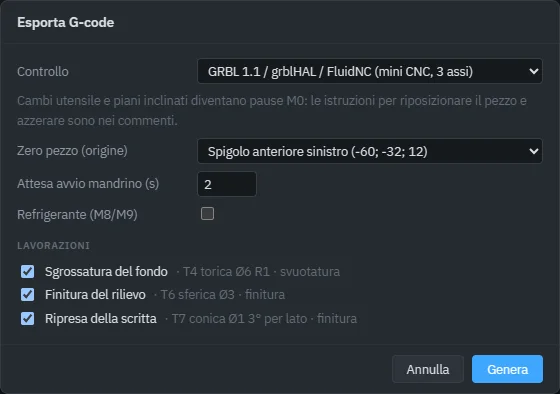
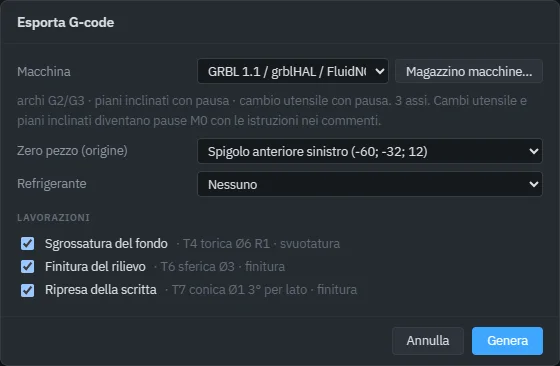
Guida, README e schermate del magazzino macchine

diff --git a/src/CarveCAM.Server/wwwroot/js/guide-pages.js b/src/CarveCAM.Server/wwwroot/js/guide-pages.js
@@ -329,10 +329,10 @@ export function guidePages() {
         ul([
           L('[[refPoint]] <b>Origini › Nuova origine da un punto</b> (clic nella vista, con aggancio ai vertici) o <b>da coordinate</b> (con i punti notevoli dell\'ingombro). I punti si chiamano <i>Origine 1, 2…</i> e si rinominano nelle proprietà.', '[[refPoint]] <b>Origins › New origin from a point</b> (click in the view, snapping to vertices) or <b>from coordinates</b> (with the key points of the bounds). The points are called <i>Origin 1, 2…</i> and can be renamed in the properties.'),
           L('Nelle proprietà di un\'origine <b>Sposta il punto…</b> la porta su un altro punto con un clic nella vista (con aggancio ai vertici).', 'In the properties of an origin <b>Move the point…</b> moves it to another point with a click in the view (snapping to vertices).'),
-          L('[[gcode]] <b>Esporta G-code</b>: scegli il controllo, lo zero pezzo e le lavorazioni; il programma si può copiare o scaricare.', '[[gcode]] <b>Export G-code</b>: choose the controller, the work zero and the operations; the program can be copied or downloaded.'),
+          L('[[gcode]] <b>Esporta G-code</b>: scegli la macchina, lo zero pezzo, il refrigerante e le lavorazioni; il programma si può copiare o scaricare.', '[[gcode]] <b>Export G-code</b>: choose the machine, the work zero, the coolant and the operations; the program can be copied or downloaded.'),
         ]),
         shot('export', [
-          S(1, L('<b>Controllo</b>: GRBL 1.1 / grblHAL / FluidNC per le mini CNC, oppure Fanuc/ISO.', '<b>Controller</b>: GRBL 1.1 / grblHAL / FluidNC for mini CNCs, or Fanuc/ISO.')),
+          S(1, L('<b>Macchina</b>: una delle CNC del magazzino macchine, con il suo modo di scrivere il programma.', '<b>Machine</b>: one of the CNCs of the machine library, with its way of writing the program.')),
           S(2, L('<b>Zero pezzo</b>: l\'origine del progetto o uno dei punti di origine.', '<b>Work zero</b>: the project origin or one of the origin points.')),
           S(3, L('<b>Lavorazioni</b> da mettere nel programma, nell\'ordine del progetto.', '<b>Operations</b> to put in the program, in project order.')),
         ], L('Esportazione del G-code', 'G-code export')),
@@ -340,6 +340,17 @@ export function guidePages() {
           L('<b>GRBL</b>: 3 assi; cambi utensile e piani inclinati diventano pause <code>M0</code> con le istruzioni nei commenti.', '<b>GRBL</b>: 3 axes; tool changes and tilted planes become <code>M0</code> pauses with the instructions in the comments.'),
           L('<b>Fanuc/ISO</b>: 3 assi in coordinate mondo, oppure 3+2 con <code>G68.2</code> per i piani inclinati. [[cldata]] <b>CL data</b> (APT) per altri post-processor.', '<b>Fanuc/ISO</b>: 3 axes in world coordinates, or 3+2 with <code>G68.2</code> for tilted planes. [[cldata]] <b>CL data</b> (APT) for other post-processors.'),
         ]),
+        h3(L('Magazzino macchine', 'Machine library')),
+        p(L('[[machine]] <b>Strumenti › Magazzino macchine</b> raccoglie le tue CNC: si parte da una macchina predefinita (GRBL, Fanuc/ISO, LinuxCNC, Mach3, solo G1), la si duplica e si adatta. A destra l\'<b>anteprima del G-code</b> mostra subito l\'effetto di ogni impostazione.',
+          '[[machine]] <b>Tools › Machine library</b> holds your CNCs: start from a built-in machine (GRBL, Fanuc/ISO, LinuxCNC, Mach3, G1 only), duplicate it and adapt it. On the right the <b>G-code preview</b> shows the effect of each setting at once.')),
+        ul([
+          L('<b>Archi e corde</b>: gli archi del percorso diventano <code>G2</code>/<code>G3</code> (centro I J o raggio R); con <b>solo G1</b> si rifanno a corde con l\'<b>errore di corda</b> e la lunghezza <b>minima</b> e <b>massima</b>.', '<b>Arcs and chords</b>: the arcs of the toolpath become <code>G2</code>/<code>G3</code> (I J centre or R radius); with <b>G1 only</b> they are remade as chords with the <b>chord error</b> and the <b>minimum</b> and <b>maximum</b> length.'),
+          L('<b>Movimenti</b>: comandi di movimento <b>esatto</b> o <b>smooth</b> (per esempio <code>G61</code>, <code>G64 P0.02</code>) per svuotature e finiture: con molti segmenti G1 il movimento smooth evita i rallentamenti.', '<b>Motion</b>: <b>exact</b> or <b>smooth</b> motion commands (for example <code>G61</code>, <code>G64 P0.02</code>) for pocketing and finishing: with many G1 segments smooth motion avoids slowdowns.'),
+          L('<b>Mandrino</b> automatico o manuale, senso di rotazione, attesa, giri minimi e massimi; <b>refrigerante</b> a pioggia, nebulizzato o aria; <b>aspirazione</b> o ventola; <b>cambio utensile</b> automatico o con pausa.', 'Automatic or manual <b>spindle</b>, direction, dwell, minimum and maximum speed; flood, mist or air <b>coolant</b>; <b>dust extraction</b> or fan; automatic or paused <b>tool change</b>.'),
+          L('<b>Sintassi</b>: parole e assi, decimali, numeri di riga, commenti, spazi; righe di inizio e fine con i segnaposto (<code>{S}</code> giri, <code>{T}</code> utensile, <code>{NAME}</code> programma…).', '<b>Syntax</b>: words and axes, decimals, line numbers, comments, spaces; start and end lines with placeholders (<code>{S}</code> speed, <code>{T}</code> tool, <code>{NAME}</code> program…).'),
+          L('Con le <b>corse</b> e l\'<b>avanzamento massimo</b> della macchina l\'esportazione avvisa se il percorso è troppo grande o troppo veloce.', 'With the machine <b>travel</b> and <b>maximum feed</b> the export warns when the toolpath is too large or too fast.'),
+        ]),
+        act([run('tools.machines', L('Apri il magazzino macchine', 'Open the machine library'), 'machine')]),
         warn(L('Controlla sempre il programma con il simulatore della tua macchina e fai la prima prova <b>in aria</b>, con lo zero alzato sopra il pezzo.', 'Always check the program with your machine simulator and do the first run <b>in the air</b>, with the zero raised above the part.')),
       ],
     },

diff --git a/README.md b/README.md
@@ -357,10 +357,41 @@ Le unità sono millimetri: se il modello è in altre unità usare la scala nelle
 
 ## G-code
 
+Il G-code si scrive per una **macchina del magazzino macchine** (*Strumenti › Magazzino macchine*, anche dal
+pulsante nell'esportazione), salvato sul server in `App_Data/library/machines.json` ed esportabile insieme a
+utensili e setup. Le macchine predefinite sono GRBL 1.1 / grblHAL / FluidNC, Fanuc/ISO 3+2 (G68.2), Fanuc/ISO 3 assi
+in coordinate mondo, LinuxCNC, Mach3/Mach4 e un controllo generico solo G1; ognuna si duplica e si modifica, con
+l'**anteprima del G-code** su un percorso di prova (elica, cerchio, raccordi, finitura curva). Per ogni macchina:
+
+- **Generale:** piani inclinati (pausa `M0` con le istruzioni, `G68.2`, coordinate mondo), ordine di
+  avvicinamento, corse degli assi e avanzamento massimo (avvisi nell'esportazione, avanzamenti ridotti), estensione
+  del file. *Valori di partenza* applica le impostazioni di una macchina predefinita.
+- **Sintassi:** parole di movimento (G0 G1 G2 G3), nomi degli assi e di I J K R F, decimali di coordinate, archi e
+  avanzamento, formato dei numeri (`10`, `10.`, `10.000`), assi invertiti, spazi, sintassi modale, numeri di riga
+  (lettera, inizio, passo), commenti tra parentesi o dopo `;` (o nessuno), maiuscolo, lunghezza massima, fine riga.
+- **Archi e corde:** i percorsi sono polilinee; il post-processor riconosce gli **archi** nei punti (tolleranza,
+  raggio minimo e massimo, angolo massimo, piani XZ e YZ, eliche) e li scrive come `G2`/`G3` con il centro `I J`
+  incrementale, assoluto o il raggio `R` (verificando il centro che ne ricava il controllo dopo l'arrotondamento).
+  Con **solo G1** gli archi riconosciuti si rifanno a corde regolari con l'**errore di corda** e la lunghezza
+  **minima** e **massima** delle corde (0 = senza limite).
+- **Movimenti:** comandi di **movimento esatto** e **smooth** (es. `G61`, `G64 P{TOL}`, `G05.1 Q1`) per le
+  svuotature e per le finiture, con la tolleranza e le righe per tornare alla modalità normale a fine programma.
+- **Mandrino:** automatico (`M3`/`M4` con i giri, senso di rotazione) o manuale (pausa per accenderlo), comandi
+  di avvio e arresto, attesa dopo l'avvio (`G4 P{SEC}`, `G4 X{SEC}`, `G4 P{MS}`), giri minimi e massimi, arresto
+  a ogni lavorazione o solo ai cambi utensile.
+- **Refrigerazione e aspirazione:** a pioggia, nebulizzato, aria, con i loro comandi e quello predefinito
+  (nell'esportazione se ne sceglie un altro); aspirazione o ventola per tutto il programma o con il mandrino.
+- **Cambio utensile:** automatico, manuale (pausa) o nessuno, correttore lunghezza (`G43 H{T}`).
+- **Inizio e fine:** righe di inizio e fine programma e di inizio e fine lavorazione con i segnaposto `{S}`
+  `{T}` `{TOOL}` `{D}` `{F}` `{SEC}` `{MS}` `{TOL}` `{NAME}` `{PROG}` `{OP}` `{DATE}` `{TIME}`; una riga
+  `(testo)` o `; testo` è un commento, scritto nello stile della macchina.
+
+Le macchine predefinite riproducono i due controlli di partenza.
+
 **GRBL 1.1, grblHAL e FluidNC** (mini CNC, 3 assi):
 
-- Solo comandi supportati da GRBL: niente `%`, numeri di programma `O`, `M6`, `G43 H` o `G68.2`. Tutte le
-  righe, commenti compresi, restano entro gli 80 caratteri del buffer di GRBL.
+- Solo comandi supportati da GRBL: niente `%`, numeri di programma `O`, `M6`, `G43 H` o `G68.2`; archi `G2`/`G3`
+  con `I J`. Tutte le righe, commenti compresi, restano entro gli 80 caratteri del buffer di GRBL.
 - A ogni lavorazione: salita alla quota di sicurezza, poi `S# M3` con attesa `G4 P` (configurabile, GRBL non
   sa quando il mandrino è in velocità), poi posizionamento in XY.
 - **Cambio utensile:** `M5` + pausa `M0`, con l'utensile da montare e l'invito a riazzerare Z nei commenti.
